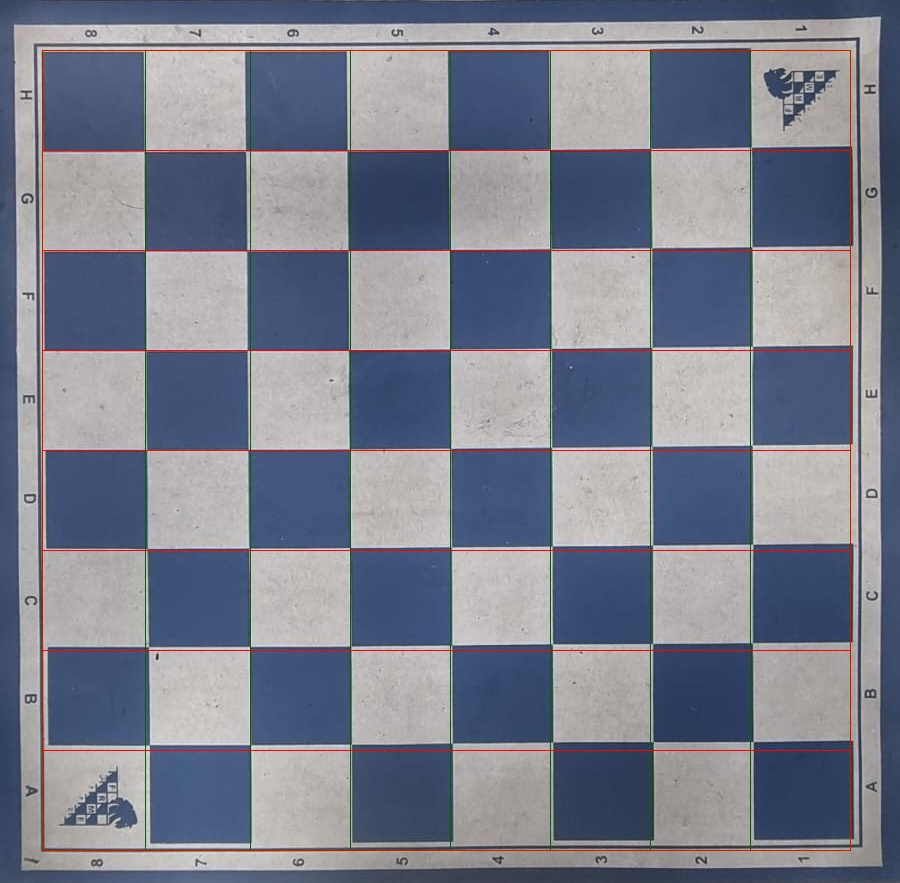
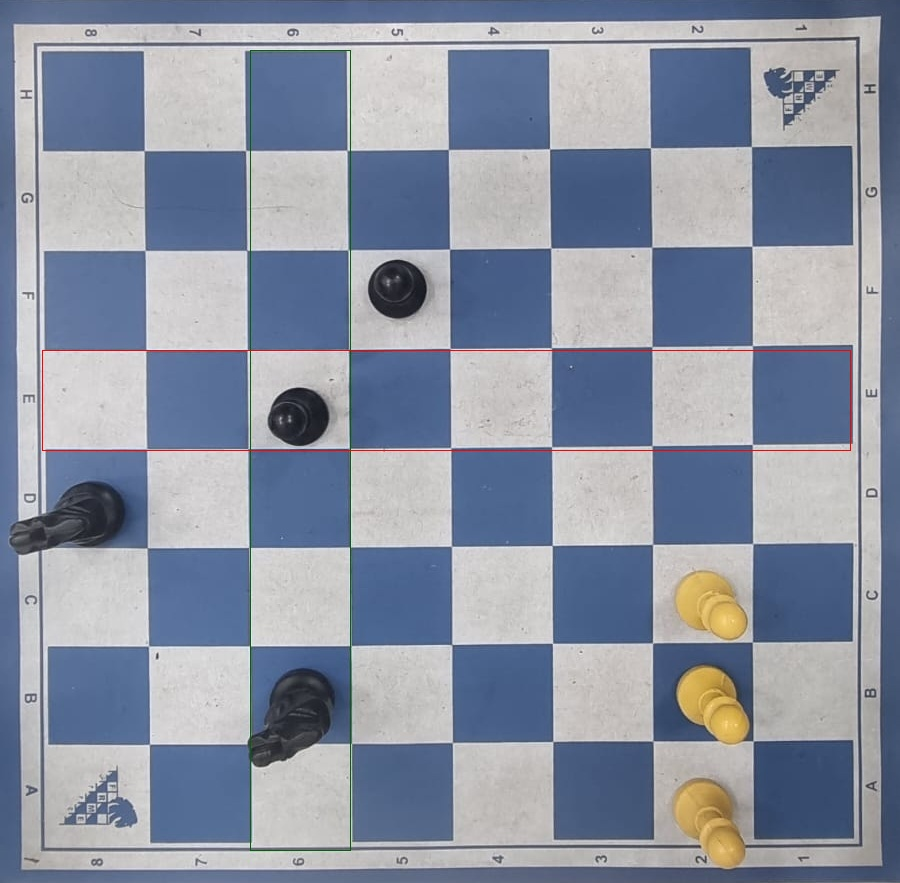
ha hna 3layn n saliw

diff --git a/tajriba.py b/tajriba.py
@@ -1,5 +1,5 @@
 import cv2
-
+import numpy as np
 def tracer_rectangles(image_path, output_path, rectangles, color=(0, 100, 0), thickness=1):
     # Charger l'image à partir du fichier
     image = cv2.imread(image_path)
@@ -32,7 +32,7 @@ def intersection(rectangle1, rectangle2):
 
 # Définir le chemin de l'image d'entrée
 image_path = "C:\\Users\\hp\\Desktop\\connectmobile\\image"
-image_name="\\a_de.jpg"
+image_name="\\b_de.jpg"
 # Définir le chemin de sortie pour l'image modifiée
 output_image_path = "C:\\Users\\hp\\Desktop\\connectmobile\\image\\a_modifiee.jpg"
 
@@ -61,37 +61,52 @@ cb=(x0,650,xf,750)
 ca=(x0,750,xf,850)
 
 # Liste des coordonnées des rectangles à tracer
-rectangles_list_n = [c1,c2,c3,c4,c5,c6,c7,c8]
-rectangles_list_l=[ca,cb,cc,cd,ce,cf,cg,ch]
+rectangles_list_n = [c6]
+rectangles_list_l=[ce]
 
 # Appeler la fonction pour tracer les rectangles et enregistrer l'image
-tracer_rectangles(image_path+image_name, output_image_path, rectangles_list_n)
-tracer_rectangles(output_image_path, output_image_path, rectangles_list_l,(0,0,255))
+#tracer_rectangles(image_path+image_name, output_image_path, rectangles_list_n)
+#tracer_rectangles(output_image_path, output_image_path, rectangles_list_l,(0,0,255))
 
 
-def comparer_images(image_path1, image_path2, coords_sup_gauche, coords_inf_droite, output_path):
-    # Charger les images
-    image1 = cv2.imread(image_path1)
-    image2 = cv2.imread(image_path2)
+def comparer_image(image1, image2, coords,output_path, seuil=500000):
+    # Charger l'image
+    image1 = cv2.imread(image1)
+    image2 = cv2.imread(image2)
 
-    # Extraire la région d'intérêt des deux images
-    region1 = image1[coords_sup_gauche[1]:coords_inf_droite[1], coords_sup_gauche[0]:coords_inf_droite[0]]
-    region2 = image2[coords_sup_gauche[1]:coords_inf_droite[1], coords_sup_gauche[0]:coords_inf_droite[0]]
+    # Extraire les coordonnées du coin supérieur gauche et du coin inférieur droit
+    x1, y1 = coords[0], coords[1]
+    x2, y2 = coords[2], coords[3]
 
-    # Calculer la différence entre les deux régions
+    # Extraire la région spécifiée
+    region1 = image1[y1:y2, x1:x2]
+    region2 = image2[y1:y2, x1:x2]
+
+    # Calculer la différence absolue entre les deux régions
     difference = cv2.absdiff(region1, region2)
 
-    # Enregistrer l'image de différence à l'emplacement spécifié
+    # Calculer la somme des valeurs des pixels de la différence
+    somme_diff = np.sum(difference)
+    print(somme_diff)
     cv2.imwrite(output_path, difference)
+    # Comparer avec le seuil
+    if somme_diff > seuil:
+        
+        return True
+    else:
+        return False
+    
 
 # Exemple d'utilisation avec les coordonnées de l'intersection de c1 et ca
-coords_intersection = intersection(c6, ce)
+coords_intersection = intersection(ch, c6)
 
 img1="\\a_de.jpg"
 img2="\\b_de.jpg"
 imgdif="\\difference_image.jpg"
-comparer_images(image_path+img1, image_path+img1, coords_intersection[:2], coords_intersection[2:], image_path+imgdif)
-
-
+c=comparer_image(image_path+img1,image_path+img2,coords_intersection,image_path+imgdif)
+if c :
+    print("mota3 3amar")
+else:
+    print("mota3 khawi")
 
 

diff --git a/prise_photo.py b/prise_photo.py
@@ -14,48 +14,48 @@ DOSSIER_DESTINATION_PC = r"C:\Users\hp\Desktop\connectmobile\image"
 # Dossier de destination sur l'appareil Android
 DOSSIER_DESTINATION_ANDROID = "/sdcard/DCIM/Camera/mobile"
 
-def redimensionner_image(chemin_image, largeur, hauteur):
-    image = Image.open(chemin_image)
-    nouvelle_image = image.resize((largeur, hauteur))
-    nouvelle_image.save(chemin_image)
+def crop_image(input_image, output_path, x, y, width, height):
+    # Charger l'image
+    img = cv2.imread(input_image)
+
+    # Découper l'image en utilisant les coordonnées x, y, largeur et hauteur spécifiées
+    cropped_img = img[y:y+height, x:x+width]
+
+    # Enregistrer l'image découpée
+    cv2.imwrite(output_path, cropped_img)
 
 
-def capture_photo(nom_photo):
-    # Démarrer le chronomètre global
+def  capture_photo(nom_photo):
+
     debut_chronometre_global = time.time()
     
-    # Commande ADB pour prendre une photo
+
     commande_capture_photo = f"adb connect {IP_DU_DISPOSITIF}:{PORT_ADB} && adb shell input keyevent KEYCODE_CAMERA"
     subprocess.run(commande_capture_photo, shell=True)
     
+
     time.sleep(2)
     
-    # Commande ADB pour savoir le dernier image
+
     commande_derniere_image = f"adb shell \"ls -t /sdcard/DCIM/Camera/ | head -n 1\""
     derniere_image = subprocess.run(commande_derniere_image, shell=True, capture_output=True, text=True)
     derniere_image = derniere_image.stdout.strip()
 
-    
-    # Commande pour changer le nom et le chemin de l'image
+
     commande_changer = f"adb shell mv /sdcard/DCIM/Camera/{derniere_image} {DOSSIER_DESTINATION_ANDROID}/{nom_photo}"
     subprocess.run(commande_changer, shell=True)
     
 
-    
-    # Copier la photo de l'appareil Android vers le PC
     commande_copie_photo = f"adb pull {DOSSIER_DESTINATION_ANDROID}/{nom_photo} {DOSSIER_DESTINATION_PC}/{nom_photo}"
     subprocess.run(commande_copie_photo, shell=True)
     
-    chemin_image_pc = f"{DOSSIER_DESTINATION_PC}/{nom_photo}"
-    redimensionner_image(chemin_image_pc, largeur=1008, hauteur=567)  # Remplacez 100 par les dimensions souhaitées
 
-    # Arrêter le chronomètre global et calculer la durée totale d'exécution
     duree_ecoulee_global = time.time() - debut_chronometre_global
     afficher_duree(duree_ecoulee_global)
     
 
 
-    # Redémarrer le serveur ADB
+
     redemmarer_serveur()
 
 def afficher_duree(duree):
